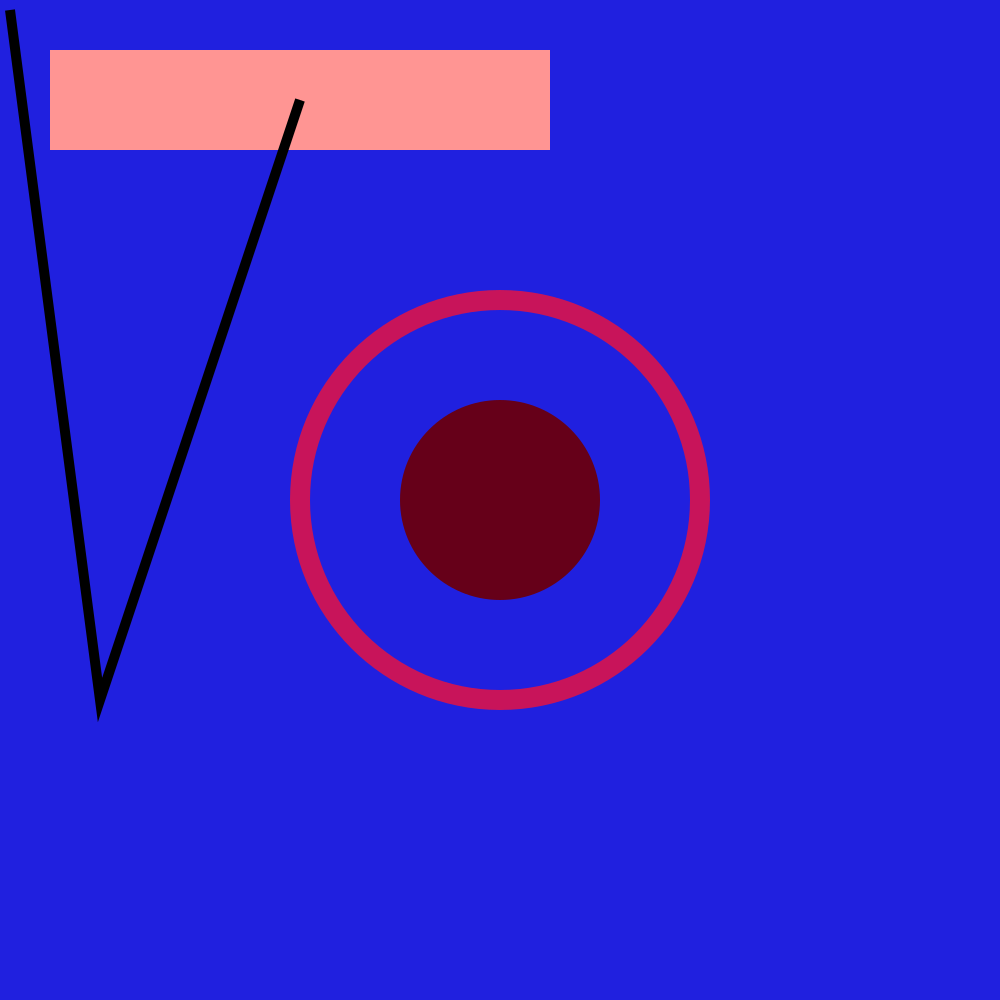
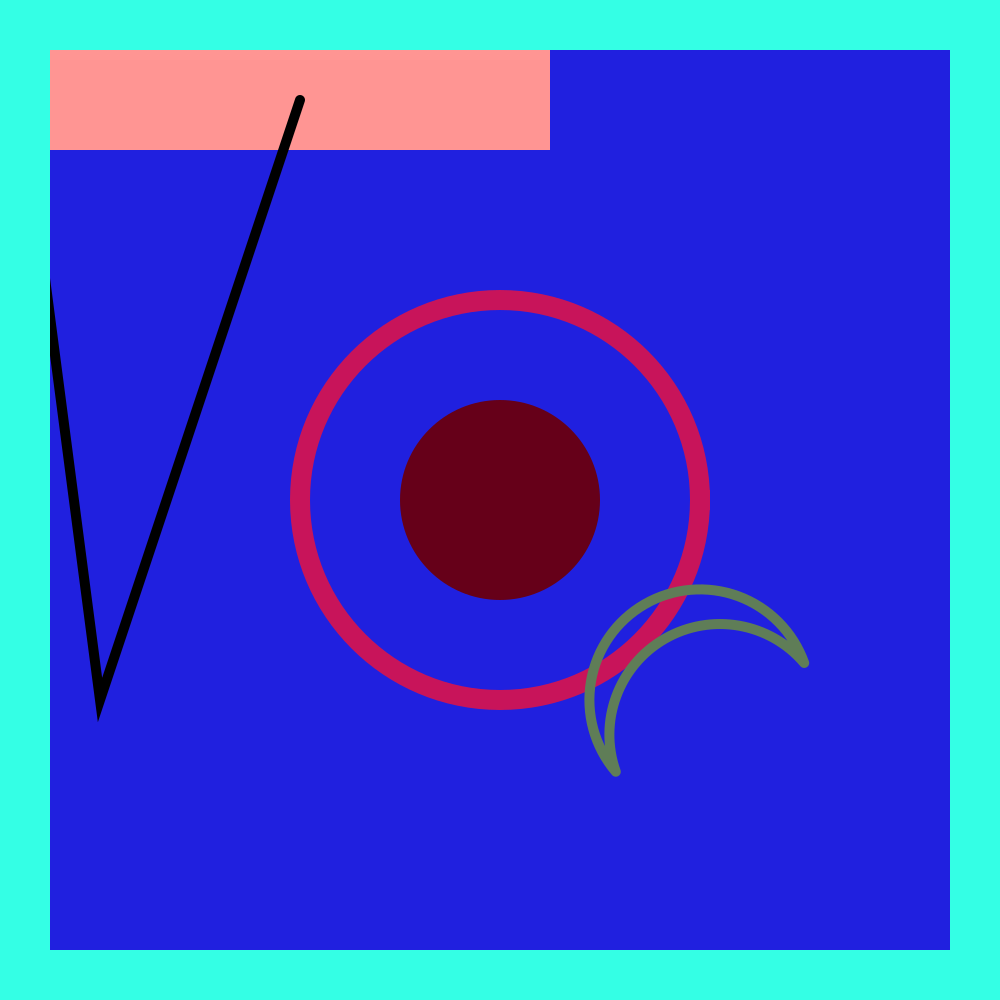
add stroke styles and frame

Changed region(s): [[0.0, 0.0, 1.0, 1.0], [0.558, 0.558, 0.806, 0.775]]

diff --git a/Cairo_Utils/styles.py b/Cairo_Utils/styles.py
@@ -1,0 +1,56 @@
+from typing import Union
+
+import cairo as cr
+from colour import Colour
+
+
+class StrokeStyles(Colour):
+
+    def __init__(self, ctx):
+        self._ctx = ctx
+        super().__init__(self._ctx)
+
+    def stroke(self,
+               linewidth: float,
+               colour: Union[tuple, str],
+               join_type: str = 'miter',
+               cap_type: str = 'square'):
+
+        colour = self.colour(colour)
+        self._ctx.set_source_rgba(*colour)
+        self._ctx.set_line_width(linewidth)
+        self.set_join(join_type)
+        self.set_cap(cap_type)
+        self._ctx.stroke()
+
+    def set_join(self, join_type):
+        if join_type == 'miter':
+            self._ctx.set_line_join(cr.LINE_JOIN_MITER)
+        elif join_type == 'round':
+            self._ctx.set_line_join(cr.LINE_JOIN_ROUND)
+        elif join_type == 'bevel':
+            self._ctx.set_line_join(cr.LINE_JOIN_BEVEL)
+        else:
+            raise ValueError(f'stroke join type "{join_type}" not understood')
+
+    def set_cap(self, cap_type):
+        if cap_type == 'square':
+            self._ctx.set_line_cap(cr.LINE_CAP_SQUARE)
+        elif cap_type == 'round':
+            self._ctx.set_line_cap(cr.LINE_CAP_ROUND)
+        elif cap_type == 'butt':
+            self._ctx.set_line_cap(cr.LINE_CAP_BUTT)
+        else:
+            raise ValueError(f'stroke cap type "{cap_type}" not understood')
+
+
+class FillStyles(Colour):
+
+    def __init__(self, ctx):
+        self._ctx = ctx
+        super().__init__(self._ctx)
+
+    def fill(self, colour: Union[tuple, str]):
+        colour = self.colour(colour)
+        self._ctx.set_source_rgba(*colour)
+        self._ctx.fill()

diff --git a/Cairo_Utils/canvas.py b/Cairo_Utils/canvas.py
@@ -1,10 +1,10 @@
 import cairo as cr
 
 from Cairo_Utils.shapes import Shapes
-from Cairo_Utils.colour import Colour
+from Cairo_Utils.styles import StrokeStyles, FillStyles
 
 
-class Canvas(Shapes, Colour):
+class Canvas(Shapes, StrokeStyles, FillStyles):
 
     def __init__(self, width: int, height: int):
         self._ims = cr.ImageSurface(cr.FORMAT_ARGB32, width, height)
@@ -12,17 +12,27 @@ class Canvas(Shapes, Colour):
         self._width = width
         self._height = height
         Shapes.__init__(self, self._ctx)
-        Colour.__init__(self, self._ctx)
+        StrokeStyles.__init__(self, self._ctx)
+        FillStyles.__init__(self, self._ctx)
 
-    def background_fill(self, rgba):
+    def background_fill(self, colour):
         self.rectangle(0, 0, self._width, self._height)
-        self.fill(rgba)
+        self.fill(colour)
+
+    def frame(self, width, colour):
+        self.polygon([(0, 0),
+                   (self._width, 0),
+                   (self._width, self._height),
+                   (0, self._height)])
+        self.stroke(2 * width, colour)
 
     def save_as_png(self, path):
         self._ims.write_to_png(path)
 
 
 if __name__ == '__main__':
+    import math
+
     c = Canvas(1000, 1000)
 
     c.background_fill('#2020DF')
@@ -40,6 +50,11 @@ if __name__ == '__main__':
             (100, 700),
             (300, 100)
             ])
-    c.stroke(10, (0, 0, 0))
+    c.stroke(10, (0, 0, 0), cap_type='round')
+
+    c.crescent(700, 700, 110.6, 40, math.pi / 3)
+    c.stroke(10, (95, 125, 87), join_type='round')
+
+    c.frame(50, '#34FFE5')
 
     c.save_as_png('test.png')

diff --git a/Cairo_Utils/colour.py b/Cairo_Utils/colour.py
@@ -8,17 +8,6 @@ class Colour:
     def __init__(self, ctx):
         self._ctx = ctx
 
-    def fill(self, colour: Union[tuple, str]):
-        colour = self.colour(colour)
-        self._ctx.set_source_rgba(*colour)
-        self._ctx.fill()
-
-    def stroke(self, linewidth: float, colour: Union[tuple, str]):
-        colour = self.colour(colour)
-        self._ctx.set_source_rgba(*colour)
-        self._ctx.set_line_width(linewidth)
-        self._ctx.stroke()
-
     def colour(self, colour: Union[tuple, str]) -> tuple:
         colour_type = self.get_colour_type(colour)
         if colour_type == float:

diff --git a/Cairo_Utils/shapes.py b/Cairo_Utils/shapes.py
@@ -29,22 +29,3 @@ class Shapes:
         self._ctx.arc_negative(x - x_shift, y - y_shift, radius,
                               rotate - phi, rotate + phi)
         self._ctx.close_path()
-
-
-if __name__ == '__main__':
-    from canvas import Canvas
-
-    WIDTH = 3000
-    HEIGHT = 2000
-
-    # Create Canvas
-    canvas = Canvas(WIDTH, HEIGHT)
-    ctx = canvas.ctx
-    ims = canvas.ims
-    canvas.background_fill((.3, .3, .3))
-
-    # Draw shapes
-    Shapes.draw_gradient_sphere(ctx, WIDTH/2, HEIGHT/2,
-                                200, 100, (1, 0.2, 0.4))
-
-    ims.write_to_png('test.png')
